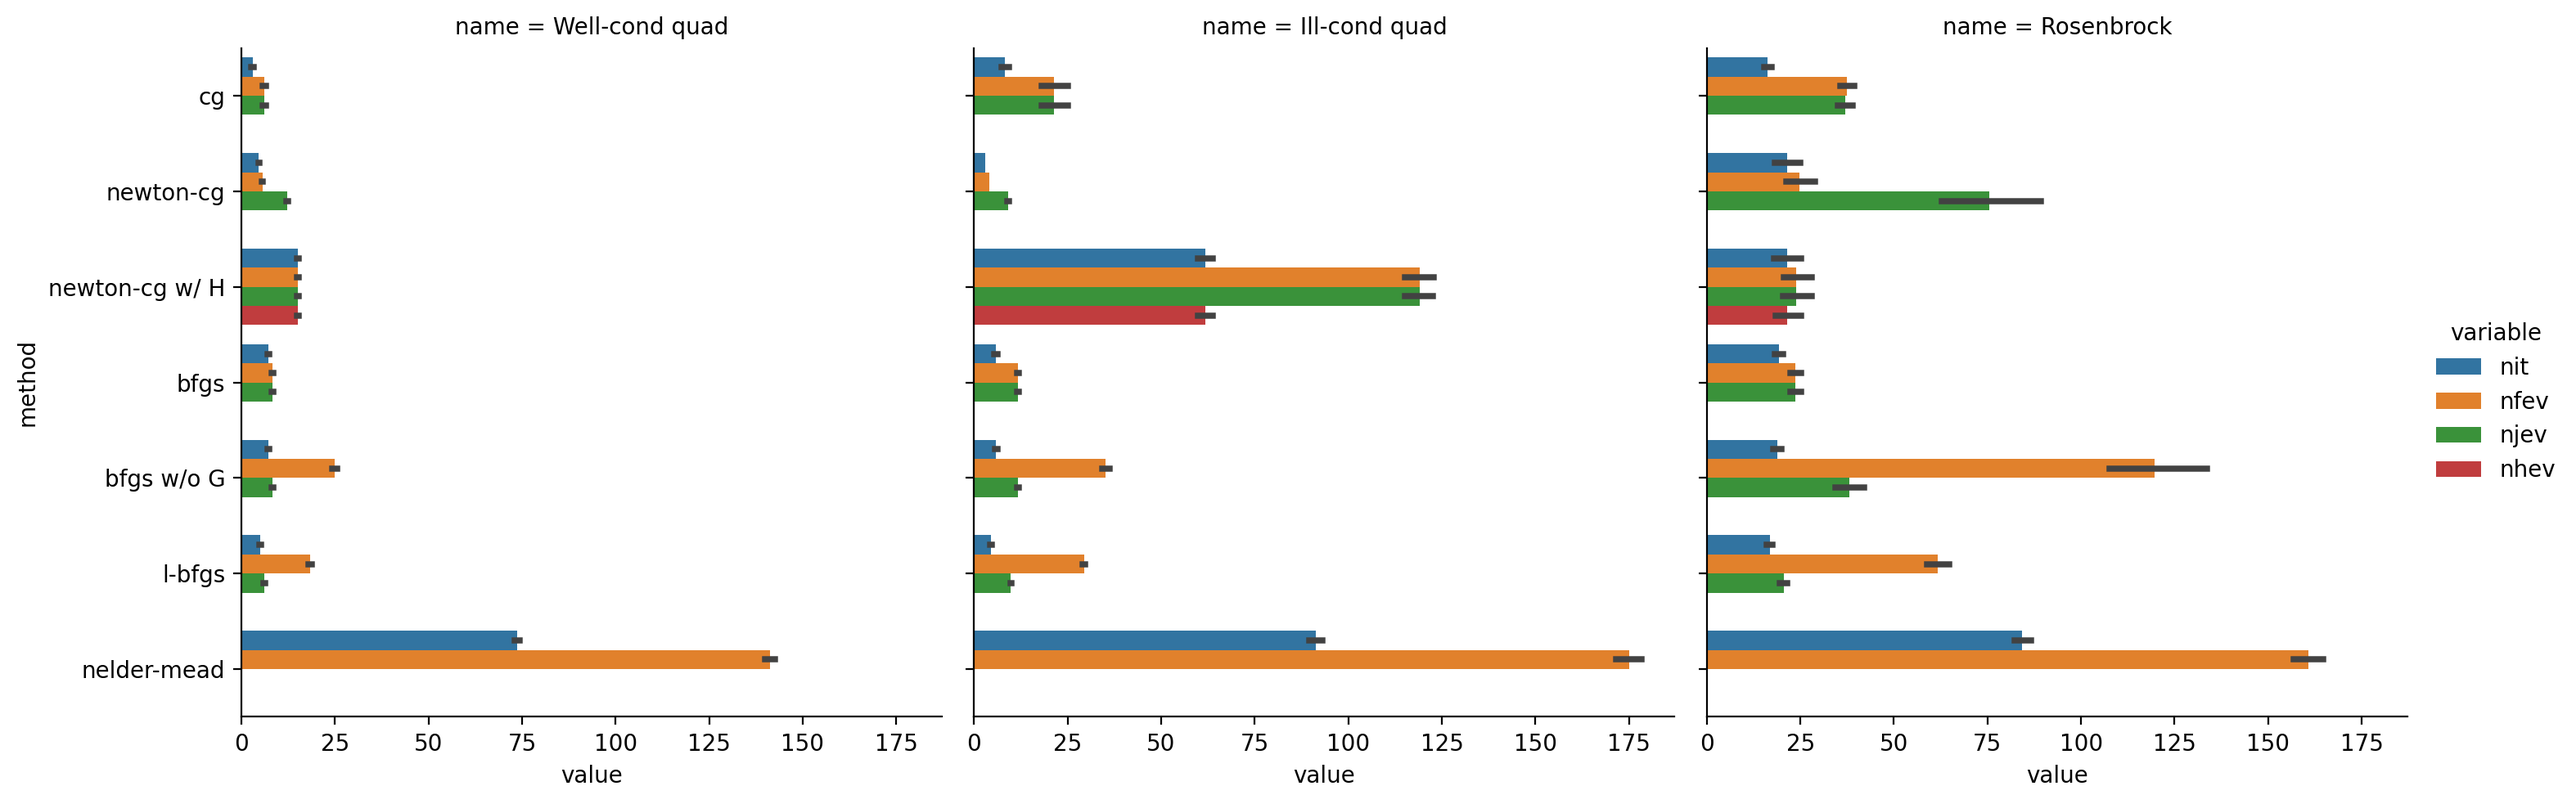
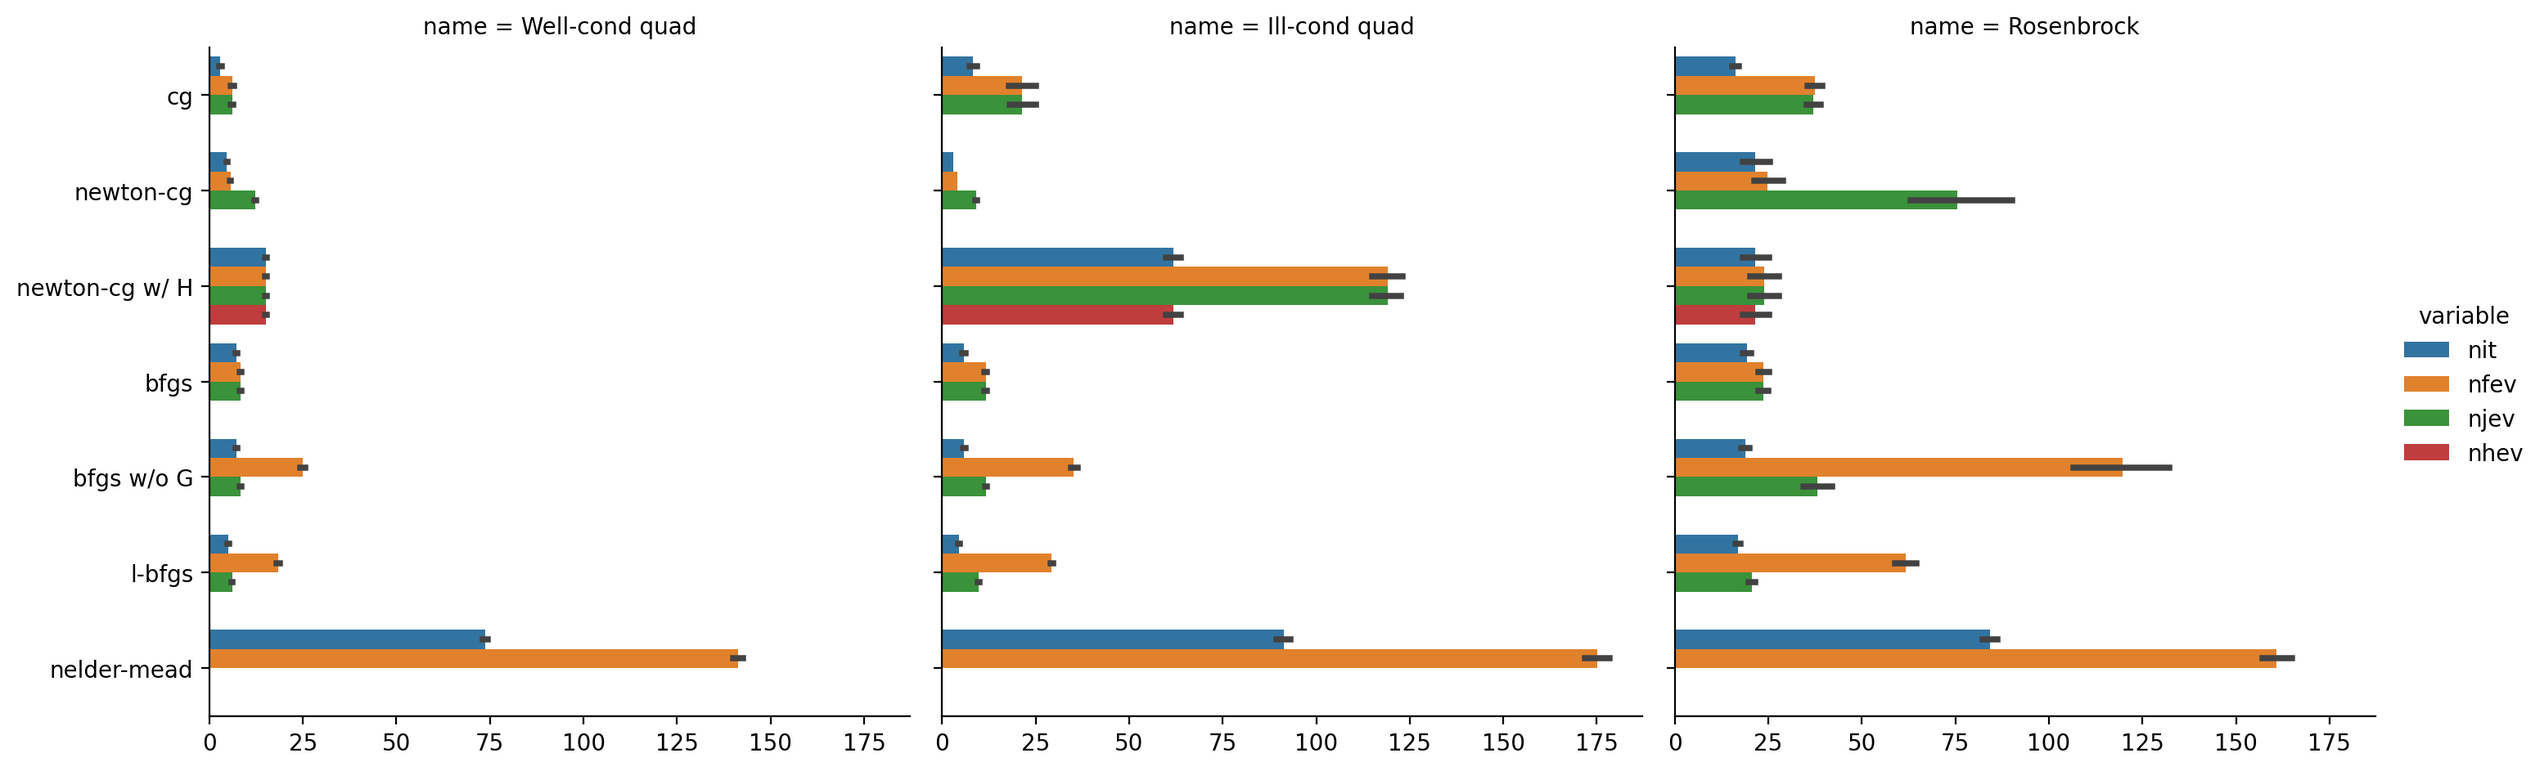
Again

diff --git a/static/slides/Lec13.html b/static/slides/Lec13.html
@@ -126,16 +126,16 @@ df
 
 ```
 ##    naive_newton  naive_cg        cg  ...  bfgs w/o G    l-bfgs  nelder-mead
-## 0      0.023563  0.040446  0.012082  ...    0.065788  0.036301     0.146798
-## 1      0.023060  0.040964  0.011677  ...    0.065560  0.035865     0.146410
-## 2      0.023302  0.041063  0.011598  ...    0.065504  0.036052     0.146640
-## 3      0.022774  0.040909  0.011547  ...    0.065739  0.035793     0.146002
-## 4      0.023025  0.040963  0.011583  ...    0.065754  0.036427     0.146700
-## 5      0.023001  0.040741  0.011775  ...    0.065971  0.035845     0.146597
-## 6      0.022881  0.040973  0.011757  ...    0.065741  0.036109     0.146857
-## 7      0.023208  0.040178  0.011600  ...    0.065504  0.036133     0.146382
-## 8      0.022823  0.039915  0.011462  ...    0.065885  0.036326     0.147206
-## 9      0.022740  0.040594  0.011547  ...    0.065205  0.035679     0.146789
+## 0      0.023537  0.039970  0.011881  ...    0.066303  0.036481     0.147036
+## 1      0.022836  0.040031  0.011484  ...    0.066409  0.036509     0.145659
+## 2      0.023006  0.040840  0.011460  ...    0.065983  0.036171     0.146303
+## 3      0.023108  0.040619  0.011740  ...    0.065224  0.036673     0.146443
+## 4      0.022910  0.040613  0.011933  ...    0.065597  0.036137     0.146067
+## 5      0.022782  0.040496  0.011701  ...    0.066092  0.036383     0.147324
+## 6      0.022979  0.040472  0.011504  ...    0.065924  0.036287     0.146281
+## 7      0.023019  0.040539  0.011490  ...    0.066140  0.036171     0.146400
+## 8      0.022744  0.039657  0.011497  ...    0.065693  0.036117     0.145820
+## 9      0.022946  0.039879  0.011523  ...    0.065842  0.036078     0.146332
 ## 
 ## [10 rows x 9 columns]
 ```
@@ -187,17 +187,17 @@ df
 
 ```
 ##         variable     value       cost_func
-## 0   naive_newton  0.004722  Well-cond quad
-## 1   naive_newton  0.004614  Well-cond quad
-## 2   naive_newton  0.004580  Well-cond quad
-## 3   naive_newton  0.004583  Well-cond quad
-## 4   naive_newton  0.004608  Well-cond quad
+## 0   naive_newton  0.004699  Well-cond quad
+## 1   naive_newton  0.004590  Well-cond quad
+## 2   naive_newton  0.004567  Well-cond quad
+## 3   naive_newton  0.004557  Well-cond quad
+## 4   naive_newton  0.004553  Well-cond quad
 ## ..           ...       ...             ...
-## 85   nelder-mead  0.048077      Rosenbrock
-## 86   nelder-mead  0.047702      Rosenbrock
-## 87   nelder-mead  0.048485      Rosenbrock
-## 88   nelder-mead  0.047949      Rosenbrock
-## 89   nelder-mead  0.048108      Rosenbrock
+## 85   nelder-mead  0.047754      Rosenbrock
+## 86   nelder-mead  0.047654      Rosenbrock
+## 87   nelder-mead  0.047935      Rosenbrock
+## 88   nelder-mead  0.047746      Rosenbrock
+## 89   nelder-mead  0.047725      Rosenbrock
 ## 
 ## [270 rows x 3 columns]
 ```
@@ -241,7 +241,7 @@ cProfile.run('run()', sort="tottime")
 ## 
 ##    ncalls  tottime  percall  cumtime  percall filename:lineno(function)
 ##       100    0.010    0.000    0.046    0.000 _optimize.py:1253(_minimize_bfgs)
-## 13700/13600    0.004    0.000    0.016    0.000 {built-in method numpy.core._multiarray_umath.implement_array_function}
+## 13700/13600    0.004    0.000    0.015    0.000 {built-in method numpy.core._multiarray_umath.implement_array_function}
 ##      4200    0.003    0.000    0.003    0.000 {method 'reduce' of 'numpy.ufunc' objects}
 ##      1000    0.002    0.000    0.003    0.000 &lt;string&gt;:8(gradient)
 ##      1000    0.002    0.000    0.006    0.000 &lt;string&gt;:2(f)
@@ -253,35 +253,35 @@ cProfile.run('run()', sort="tottime")
 ##       900    0.001    0.000    0.013    0.000 _linesearch.py:73(phi)
 ##      2100    0.001    0.000    0.001    0.000 shape_base.py:23(atleast_1d)
 ##      1000    0.001    0.000    0.008    0.000 _differentiable_functions.py:132(fun_wrapped)
-##      1000    0.001    0.000    0.006    0.000 _differentiable_functions.py:162(grad_wrapped)
-##       900    0.001    0.000    0.027    0.000 _optimize.py:1084(_line_search_wolfe12)
+##      1000    0.001    0.000    0.005    0.000 _differentiable_functions.py:162(grad_wrapped)
 ##       900    0.001    0.000    0.026    0.000 _linesearch.py:31(line_search_wolfe1)
+##       900    0.001    0.000    0.027    0.000 _optimize.py:1084(_line_search_wolfe12)
 ##      1000    0.001    0.000    0.012    0.000 _differentiable_functions.py:264(fun)
 ##      2100    0.001    0.000    0.001    0.000 {built-in method numpy.array}
 ##      1000    0.001    0.000    0.003    0.000 _optimize.py:166(vecnorm)
 ##      2100    0.001    0.000    0.002    0.000 &lt;__array_function__ internals&gt;:177(atleast_1d)
 ##      2000    0.001    0.000    0.001    0.000 {built-in method numpy.arange}
 ##      2100    0.001    0.000    0.002    0.000 &lt;__array_function__ internals&gt;:177(copy)
-##      2000    0.000    0.000    0.005    0.000 &lt;__array_function__ internals&gt;:177(array_equal)
+##      2000    0.001    0.000    0.005    0.000 &lt;__array_function__ internals&gt;:177(array_equal)
 ##      1000    0.000    0.000    0.002    0.000 fromnumeric.py:2160(sum)
 ##      2100    0.000    0.000    0.000    0.000 fromnumeric.py:70(&lt;dictcomp&gt;)
-##       900    0.000    0.000    0.002    0.000 _differentiable_functions.py:240(update_x)
 ##      8400    0.000    0.000    0.000    0.000 {built-in method numpy.asarray}
 ##      1000    0.000    0.000    0.008    0.000 _differentiable_functions.py:270(grad)
+##       900    0.000    0.000    0.002    0.000 _differentiable_functions.py:240(update_x)
 ##       100    0.000    0.000    0.002    0.000 _differentiable_functions.py:86(__init__)
 ##      1000    0.000    0.000    0.002    0.000 fromnumeric.py:2675(amax)
-##       100    0.000    0.000    0.047    0.000 _minimize.py:45(minimize)
 ##      2000    0.000    0.000    0.000    0.000 {method 'copy' of 'numpy.ndarray' objects}
 ##      2000    0.000    0.000    0.002    0.000 {method 'all' of 'numpy.ndarray' objects}
+##       100    0.000    0.000    0.047    0.000 _minimize.py:45(minimize)
 ##      2000    0.000    0.000    0.002    0.000 _methods.py:60(_all)
 ##      1900    0.000    0.000    0.000    0.000 {built-in method numpy.zeros}
-##      2100    0.000    0.000    0.001    0.000 function_base.py:846(copy)
 ##      5200    0.000    0.000    0.000    0.000 multiarray.py:736(dot)
+##      2100    0.000    0.000    0.001    0.000 function_base.py:846(copy)
 ##      1000    0.000    0.000    0.003    0.000 &lt;__array_function__ internals&gt;:177(sum)
 ##      1100    0.000    0.000    0.008    0.000 _differentiable_functions.py:249(_update_fun)
-##      2100    0.000    0.000    0.000    0.000 {method 'items' of 'dict' objects}
-##      1100    0.000    0.000    0.006    0.000 _differentiable_functions.py:254(_update_grad)
 ##      1000    0.000    0.000    0.003    0.000 &lt;__array_function__ internals&gt;:177(amax)
+##      1100    0.000    0.000    0.006    0.000 _differentiable_functions.py:254(_update_grad)
+##      2100    0.000    0.000    0.000    0.000 {method 'items' of 'dict' objects}
 ##      1000    0.000    0.000    0.008    0.000 _differentiable_functions.py:154(update_fun)
 ##      1000    0.000    0.000    0.000    0.000 {method 'astype' of 'numpy.ndarray' objects}
 ##      1000    0.000    0.000    0.006    0.000 _differentiable_functions.py:166(update_grad)
@@ -289,40 +289,40 @@ cProfile.run('run()', sort="tottime")
 ##      2500    0.000    0.000    0.000    0.000 {built-in method builtins.isinstance}
 ##      2100    0.000    0.000    0.000    0.000 function_base.py:842(_copy_dispatcher)
 ##      1000    0.000    0.000    0.000    0.000 numeric.py:1859(isscalar)
-##       900    0.000    0.000    0.000    0.000 {built-in method builtins.min}
 ##      2000    0.000    0.000    0.000    0.000 numeric.py:2384(_array_equal_dispatcher)
+##       900    0.000    0.000    0.000    0.000 {built-in method builtins.min}
 ##      2400    0.000    0.000    0.000    0.000 {built-in method builtins.len}
-##      2200    0.000    0.000    0.000    0.000 {method 'append' of 'list' objects}
 ##      2100    0.000    0.000    0.000    0.000 shape_base.py:19(_atleast_1d_dispatcher)
+##      2200    0.000    0.000    0.000    0.000 {method 'append' of 'list' objects}
 ##       100    0.000    0.000    0.000    0.000 twodim_base.py:161(eye)
 ##      2200    0.000    0.000    0.000    0.000 {built-in method numpy.asanyarray}
 ##       100    0.000    0.000    0.002    0.000 _optimize.py:175(_prepare_scalar_function)
 ##      1000    0.000    0.000    0.000    0.000 fromnumeric.py:2155(_sum_dispatcher)
 ##      1000    0.000    0.000    0.000    0.000 fromnumeric.py:2670(_amax_dispatcher)
 ##       100    0.000    0.000    0.000    0.000 shape_base.py:81(atleast_2d)
-##         1    0.000    0.000    0.047    0.047 &lt;string&gt;:1(run)
 ##       900    0.000    0.000    0.000    0.000 {method 'pop' of 'dict' objects}
+##         1    0.000    0.000    0.047    0.047 &lt;string&gt;:1(run)
 ##       100    0.000    0.000    0.000    0.000 _minimize.py:933(standardize_constraints)
 ##       100    0.000    0.000    0.000    0.000 fromnumeric.py:2305(any)
 ##       700    0.000    0.000    0.000    0.000 {built-in method builtins.callable}
-##       100    0.000    0.000    0.000    0.000 &lt;__array_function__ internals&gt;:177(any)
 ##       100    0.000    0.000    0.000    0.000 {method 'flatten' of 'numpy.ndarray' objects}
+##       100    0.000    0.000    0.000    0.000 &lt;__array_function__ internals&gt;:177(any)
 ##       100    0.000    0.000    0.000    0.000 &lt;__array_function__ internals&gt;:177(norm)
 ##       100    0.000    0.000    0.000    0.000 &lt;__array_function__ internals&gt;:177(atleast_2d)
 ##       100    0.000    0.000    0.000    0.000 {method 'reshape' of 'numpy.ndarray' objects}
 ##       100    0.000    0.000    0.000    0.000 {method 'any' of 'numpy.ndarray' objects}
 ##       100    0.000    0.000    0.000    0.000 {built-in method builtins.getattr}
 ##       100    0.000    0.000    0.000    0.000 _methods.py:54(_any)
+##       100    0.000    0.000    0.000    0.000 _base.py:1291(isspmatrix)
+##       100    0.000    0.000    0.000    0.000 linalg.py:116(isComplexType)
 ##       200    0.000    0.000    0.000    0.000 {built-in method builtins.issubclass}
 ##       100    0.000    0.000    0.000    0.000 {method 'ravel' of 'numpy.ndarray' objects}
-##       100    0.000    0.000    0.000    0.000 linalg.py:116(isComplexType)
-##       100    0.000    0.000    0.000    0.000 _base.py:1291(isspmatrix)
 ##       100    0.000    0.000    0.000    0.000 _optimize.py:147(_check_unknown_options)
-##         1    0.000    0.000    0.047    0.047 {built-in method builtins.exec}
-##       100    0.000    0.000    0.000    0.000 fromnumeric.py:2300(_any_dispatcher)
-##       100    0.000    0.000    0.000    0.000 linalg.py:2345(_norm_dispatcher)
 ##       100    0.000    0.000    0.000    0.000 {method 'lower' of 'str' objects}
+##       100    0.000    0.000    0.000    0.000 linalg.py:2345(_norm_dispatcher)
+##       100    0.000    0.000    0.000    0.000 fromnumeric.py:2300(_any_dispatcher)
 ##       100    0.000    0.000    0.000    0.000 {method 'setdefault' of 'dict' objects}
+##         1    0.000    0.000    0.047    0.047 {built-in method builtins.exec}
 ##       100    0.000    0.000    0.000    0.000 _optimize.py:255(hess)
 ##       100    0.000    0.000    0.000    0.000 shape_base.py:77(_atleast_2d_dispatcher)
 ##         1    0.000    0.000    0.047    0.047 &lt;string&gt;:1(&lt;module&gt;)
@@ -345,81 +345,81 @@ cProfile.run('run()', sort="tottime")
 ```
 
 ```
-##          756504 function calls in 0.268 seconds
+##          756504 function calls in 0.270 seconds
 ## 
 ##    Ordered by: internal time
 ## 
 ##    ncalls  tottime  percall  cumtime  percall filename:lineno(function)
-##       100    0.071    0.001    0.267    0.003 _optimize.py:635(_minimize_neldermead)
+##       100    0.071    0.001    0.269    0.003 _optimize.py:635(_minimize_neldermead)
 ##     18600    0.034    0.000    0.087    0.000 &lt;string&gt;:2(f)
 ##     38000    0.028    0.000    0.028    0.000 {method 'reduce' of 'numpy.ufunc' objects}
-##     86400    0.016    0.000    0.107    0.000 {built-in method numpy.core._multiarray_umath.implement_array_function}
-##     28500    0.013    0.000    0.041    0.000 fromnumeric.py:69(_wrapreduction)
+##     86400    0.017    0.000    0.108    0.000 {built-in method numpy.core._multiarray_umath.implement_array_function}
+##     28500    0.013    0.000    0.040    0.000 fromnumeric.py:69(_wrapreduction)
 ##     18600    0.011    0.000    0.117    0.000 _optimize.py:491(function_wrapper)
 ##     18600    0.008    0.000    0.035    0.000 fromnumeric.py:2160(sum)
 ##     29400    0.007    0.000    0.019    0.000 fromnumeric.py:51(_wrapfunc)
 ##     19600    0.006    0.000    0.006    0.000 {method 'take' of 'numpy.ndarray' objects}
 ##     28500    0.005    0.000    0.005    0.000 fromnumeric.py:70(&lt;dictcomp&gt;)
 ##     18800    0.005    0.000    0.005    0.000 {built-in method numpy.array}
-##     18600    0.004    0.000    0.004    0.000 {built-in method numpy.arange}
-##     19600    0.004    0.000    0.016    0.000 fromnumeric.py:93(take)
-##     19600    0.004    0.000    0.025    0.000 &lt;__array_function__ internals&gt;:177(take)
+##     19600    0.005    0.000    0.025    0.000 &lt;__array_function__ internals&gt;:177(take)
+##     19600    0.005    0.000    0.016    0.000 fromnumeric.py:93(take)
 ##     18600    0.004    0.000    0.044    0.000 &lt;__array_function__ internals&gt;:177(sum)
+##     18600    0.004    0.000    0.004    0.000 {built-in method numpy.arange}
 ##     18600    0.004    0.000    0.016    0.000 &lt;__array_function__ internals&gt;:177(copy)
 ##      9800    0.004    0.000    0.004    0.000 {method 'argsort' of 'numpy.ndarray' objects}
 ##      9700    0.003    0.000    0.017    0.000 fromnumeric.py:2675(amax)
 ##      9600    0.003    0.000    0.006    0.000 fromnumeric.py:1755(ravel)
 ##     18600    0.003    0.000    0.003    0.000 {method 'copy' of 'numpy.ndarray' objects}
 ##     47000    0.003    0.000    0.003    0.000 {built-in method builtins.isinstance}
-##      9800    0.002    0.000    0.009    0.000 fromnumeric.py:1012(argsort)
-##      9800    0.002    0.000    0.014    0.000 &lt;__array_function__ internals&gt;:177(argsort)
 ##     18600    0.002    0.000    0.007    0.000 function_base.py:846(copy)
-##      9600    0.002    0.000    0.010    0.000 &lt;__array_function__ internals&gt;:177(ravel)
+##      9800    0.002    0.000    0.010    0.000 fromnumeric.py:1012(argsort)
+##      9800    0.002    0.000    0.015    0.000 &lt;__array_function__ internals&gt;:177(argsort)
+##      9600    0.002    0.000    0.011    0.000 &lt;__array_function__ internals&gt;:177(ravel)
 ##      9700    0.002    0.000    0.022    0.000 &lt;__array_function__ internals&gt;:177(amax)
 ##     18600    0.002    0.000    0.003    0.000 numeric.py:1859(isscalar)
 ##     29500    0.002    0.000    0.002    0.000 {built-in method builtins.getattr}
-##     28500    0.001    0.000    0.001    0.000 {method 'items' of 'dict' objects}
-##     18600    0.001    0.000    0.001    0.000 fromnumeric.py:2155(_sum_dispatcher)
 ##      9600    0.001    0.000    0.001    0.000 {method 'ravel' of 'numpy.ndarray' objects}
 ##     18600    0.001    0.000    0.001    0.000 function_base.py:842(_copy_dispatcher)
+##     18600    0.001    0.000    0.001    0.000 fromnumeric.py:2155(_sum_dispatcher)
 ##     19600    0.001    0.000    0.001    0.000 fromnumeric.py:89(_take_dispatcher)
+##     28500    0.001    0.000    0.001    0.000 {method 'items' of 'dict' objects}
 ##     18800    0.001    0.000    0.001    0.000 {built-in method numpy.asarray}
 ##      9800    0.001    0.000    0.001    0.000 fromnumeric.py:1008(_argsort_dispatcher)
 ##      9600    0.001    0.000    0.001    0.000 fromnumeric.py:1751(_ravel_dispatcher)
 ##      9700    0.001    0.000    0.001    0.000 fromnumeric.py:2670(_amax_dispatcher)
 ##      9700    0.001    0.000    0.001    0.000 {built-in method numpy.asanyarray}
-##       100    0.000    0.000    0.268    0.003 _minimize.py:45(minimize)
+##       100    0.000    0.000    0.270    0.003 _minimize.py:45(minimize)
+##         1    0.000    0.000    0.270    0.270 &lt;string&gt;:1(run)
 ##       100    0.000    0.000    0.000    0.000 shape_base.py:23(atleast_1d)
-##         1    0.000    0.000    0.268    0.268 &lt;string&gt;:1(run)
 ##       100    0.000    0.000    0.000    0.000 _minimize.py:933(standardize_constraints)
-##       100    0.000    0.000    0.000    0.000 type_check.py:84(asfarray)
 ##       100    0.000    0.000    0.000    0.000 numeric.py:289(full)
-##       200    0.000    0.000    0.000    0.000 {built-in method numpy.empty}
+##       100    0.000    0.000    0.000    0.000 type_check.py:84(asfarray)
 ##       100    0.000    0.000    0.000    0.000 numerictypes.py:356(issubdtype)
+##       200    0.000    0.000    0.000    0.000 {built-in method numpy.empty}
+##       100    0.000    0.000    0.000    0.000 &lt;__array_function__ internals&gt;:177(copyto)
 ##       100    0.000    0.000    0.000    0.000 fromnumeric.py:2800(amin)
 ##       100    0.000    0.000    0.000    0.000 fromnumeric.py:2305(any)
-##       100    0.000    0.000    0.000    0.000 &lt;__array_function__ internals&gt;:177(copyto)
-##       100    0.000    0.000    0.000    0.000 {method 'flatten' of 'numpy.ndarray' objects}
 ##       100    0.000    0.000    0.000    0.000 &lt;__array_function__ internals&gt;:177(atleast_1d)
 ##       200    0.000    0.000    0.000    0.000 numerictypes.py:282(issubclass_)
-##       100    0.000    0.000    0.000    0.000 &lt;__array_function__ internals&gt;:177(any)
 ##       100    0.000    0.000    0.000    0.000 &lt;__array_function__ internals&gt;:177(asfarray)
+##       100    0.000    0.000    0.000    0.000 &lt;__array_function__ internals&gt;:177(any)
+##       100    0.000    0.000    0.000    0.000 {method 'flatten' of 'numpy.ndarray' objects}
 ##       100    0.000    0.000    0.000    0.000 &lt;__array_function__ internals&gt;:177(amin)
-##       300    0.000    0.000    0.000    0.000 {built-in method builtins.issubclass}
 ##       100    0.000    0.000    0.000    0.000 _optimize.py:484(_wrap_scalar_function_maxfun_validation)
+##       300    0.000    0.000    0.000    0.000 {built-in method builtins.issubclass}
 ##       200    0.000    0.000    0.000    0.000 {built-in method builtins.len}
 ##       200    0.000    0.000    0.000    0.000 {method 'setdefault' of 'dict' objects}
-##       200    0.000    0.000    0.000    0.000 {built-in method builtins.callable}
 ##       100    0.000    0.000    0.000    0.000 _optimize.py:147(_check_unknown_options)
-##         1    0.000    0.000    0.268    0.268 {built-in method builtins.exec}
+##       200    0.000    0.000    0.000    0.000 {built-in method builtins.callable}
+##       100    0.000    0.000    0.000    0.000 fromnumeric.py:2300(_any_dispatcher)
+##         1    0.000    0.000    0.270    0.270 {built-in method builtins.exec}
 ##       100    0.000    0.000    0.000    0.000 multiarray.py:1071(copyto)
 ##       100    0.000    0.000    0.000    0.000 {method 'lower' of 'str' objects}
-##       100    0.000    0.000    0.000    0.000 {method 'append' of 'list' objects}
-##       100    0.000    0.000    0.000    0.000 fromnumeric.py:2300(_any_dispatcher)
 ##       100    0.000    0.000    0.000    0.000 type_check.py:80(_asfarray_dispatcher)
 ##       100    0.000    0.000    0.000    0.000 fromnumeric.py:2795(_amin_dispatcher)
+##       100    0.000    0.000    0.000    0.000 {method 'append' of 'list' objects}
 ##       100    0.000    0.000    0.000    0.000 shape_base.py:19(_atleast_1d_dispatcher)
-##         1    0.000    0.000    0.268    0.268 &lt;string&gt;:1(&lt;module&gt;)
+##         1    0.000    0.000    0.270    0.270 &lt;string&gt;:1(&lt;module&gt;)
 ##         1    0.000    0.000    0.000    0.000 {method 'disable' of '_lsprof.Profiler' objects}
 ```
 ]
@@ -623,17 +623,19 @@ df.drop(["message"], axis=1)
 
 ---
 
-## Performance
+## Performance (random start)
 
 
 ```python
 sns.catplot(
   y = "method", x = "value", hue = "variable", col="name", kind="bar",
   data = df.melt(id_vars=["name","method"], value_vars=["nit", "nfev", "njev", "nhev"]).astype({"value": "float64"})
+).set(
+  xlabel="", ylabel=""
 )
 ```
 
-&lt;img src="Lec13_files/figure-html/unnamed-chunk-18-9.png" width="4197" style="display: block; margin: auto;" /&gt;
+&lt;img src="Lec13_files/figure-html/unnamed-chunk-18-9.png" width="4145" style="display: block; margin: auto;" /&gt;
 
 ---
 
@@ -1187,7 +1189,6 @@ optimize.minimize(f, np.ones(n), jac=grad, method="BFGS", tol=1e-10)
 
 ---
 
-.small[
 
 ```python
 sns.catplot(
@@ -1200,12 +1201,12 @@ sns.catplot(
     "name != '2d'"
   )
 ).set(
-  xscale="log"
+  xscale="log", xlabel="", ylabel=""
 )
 ```
 
-&lt;img src="Lec13_files/figure-html/unnamed-chunk-35-11.png" width="5536" style="display: block; margin: auto;" /&gt;
-]
+&lt;img src="Lec13_files/figure-html/unnamed-chunk-35-11.png" width="5484" style="display: block; margin: auto;" /&gt;
+
 
 ---
 
